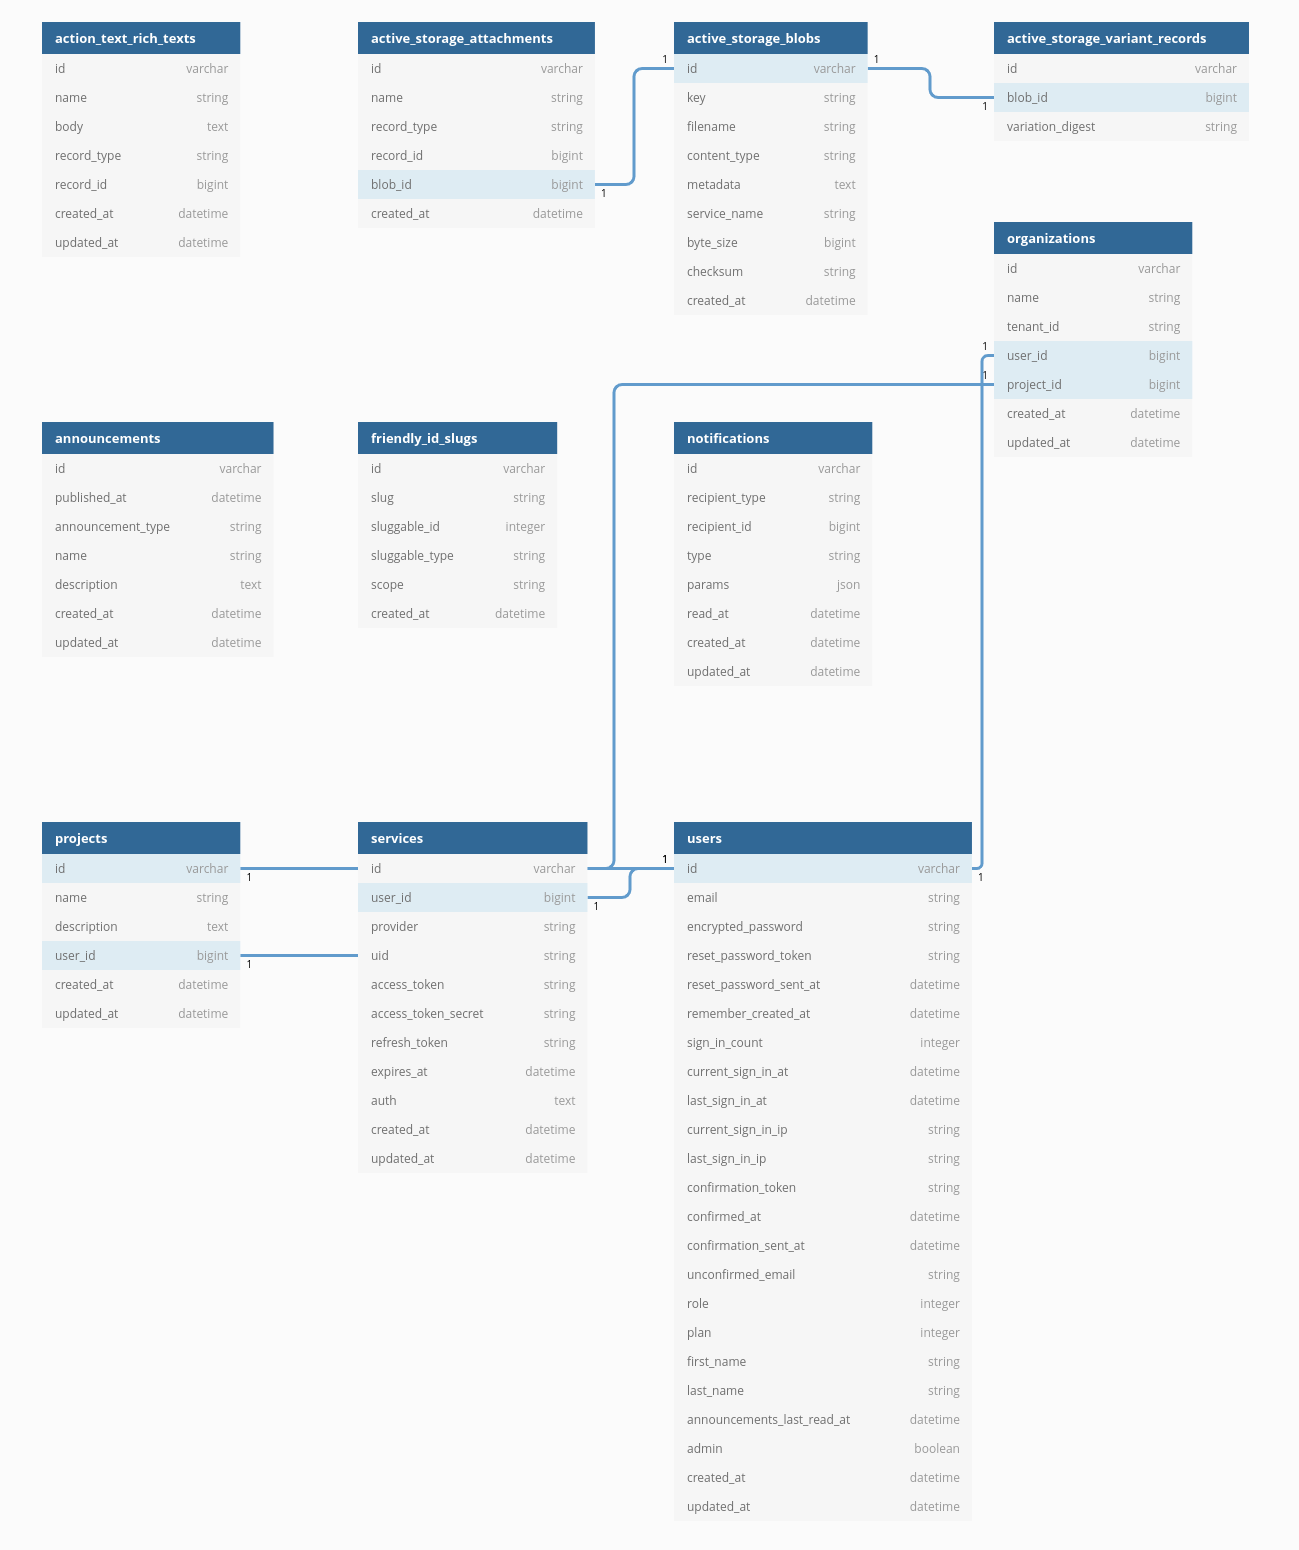
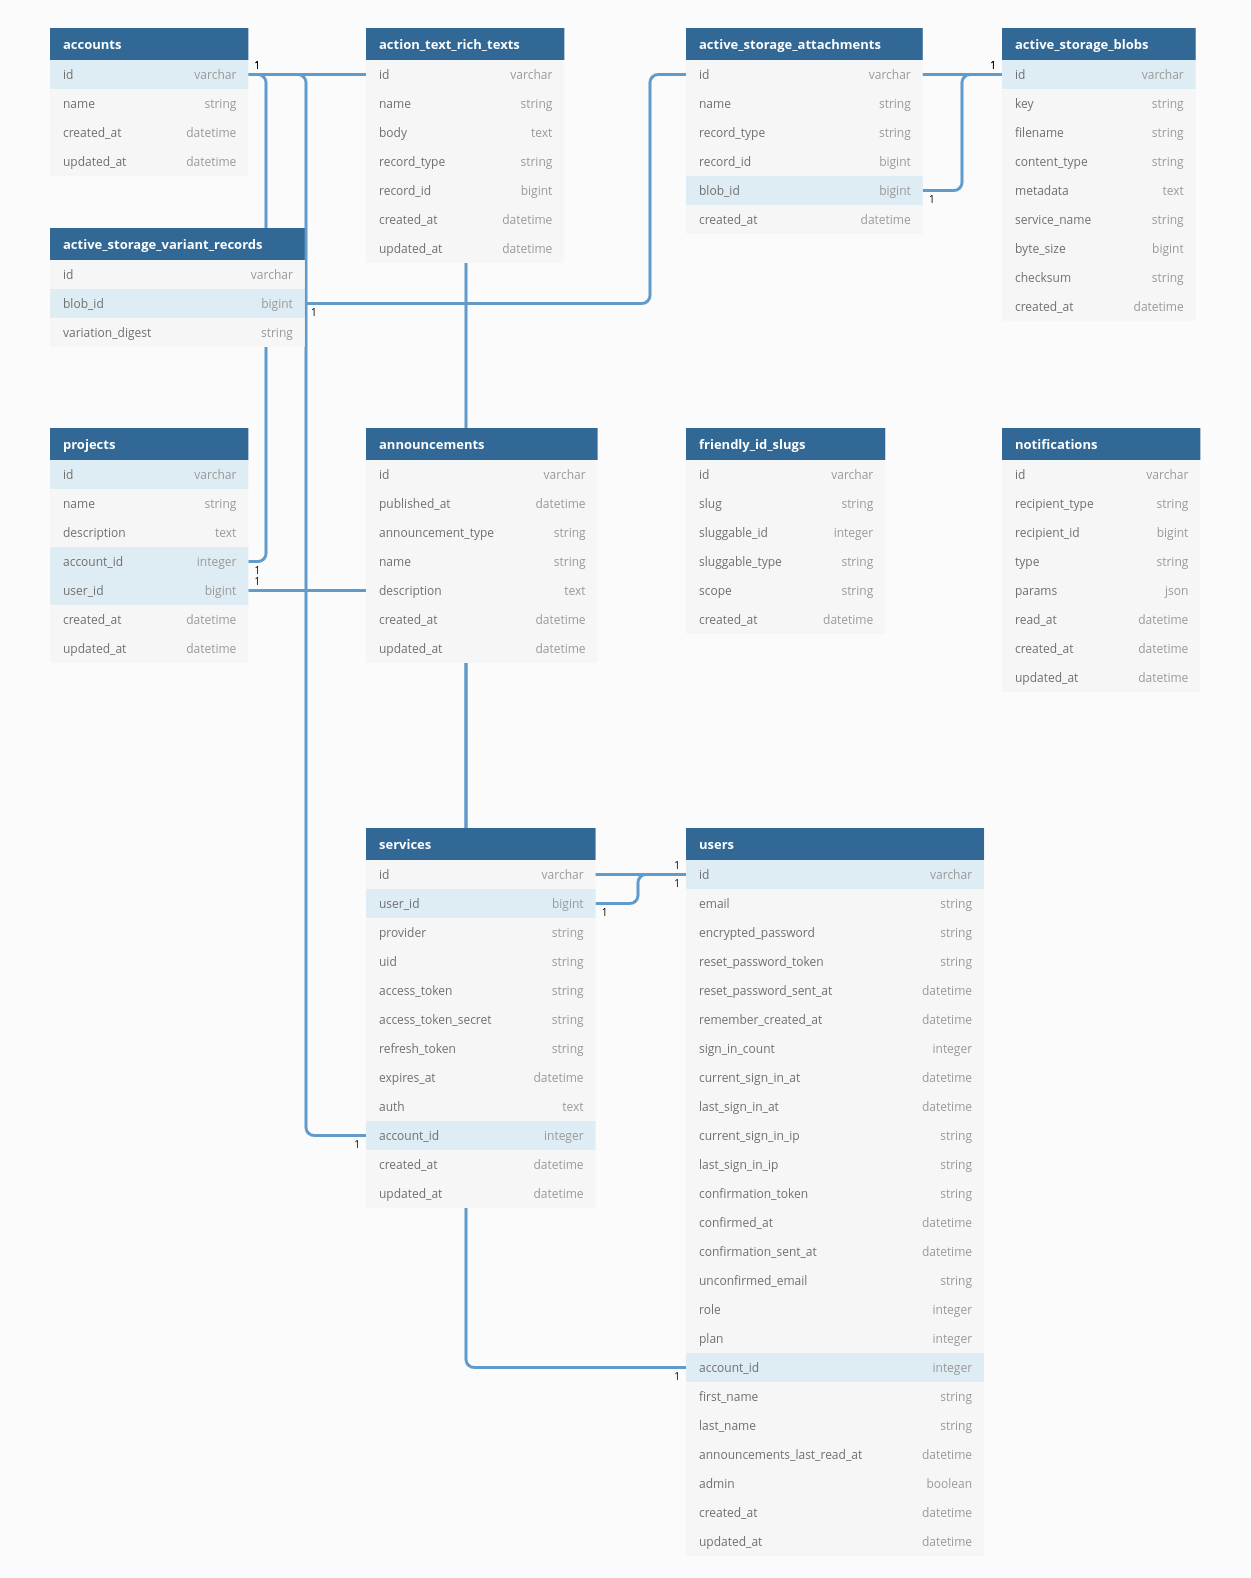
Multi Tenant test, todo, fix Current account

diff --git a/db/schema.rb b/db/schema.rb
@@ -10,9 +10,15 @@
 #
 # It's strongly recommended that you check this file into your version control system.
 
-ActiveRecord::Schema[7.0].define(version: 2022_03_30_122023) do
+ActiveRecord::Schema[7.0].define(version: 2022_03_30_144824) do
   # These are extensions that must be enabled in order to support this database
   enable_extension "plpgsql"
+
+  create_table "accounts", force: :cascade do |t|
+    t.string "name"
+    t.datetime "created_at", null: false
+    t.datetime "updated_at", null: false
+  end
 
   create_table "action_text_rich_texts", force: :cascade do |t|
     t.string "name", null: false
@@ -84,20 +90,10 @@ ActiveRecord::Schema[7.0].define(version: 2022_03_30_122023) do
     t.index ["recipient_type", "recipient_id"], name: "index_notifications_on_recipient"
   end
 
-  create_table "organizations", force: :cascade do |t|
-    t.string "name"
-    t.string "tenant_id"
-    t.bigint "user_id", null: false
-    t.bigint "project_id", null: false
-    t.datetime "created_at", null: false
-    t.datetime "updated_at", null: false
-    t.index ["project_id"], name: "index_organizations_on_project_id"
-    t.index ["user_id"], name: "index_organizations_on_user_id"
-  end
-
   create_table "projects", force: :cascade do |t|
     t.string "name"
     t.text "description"
+    t.integer "account_id"
     t.bigint "user_id", null: false
     t.datetime "created_at", null: false
     t.datetime "updated_at", null: false
@@ -113,6 +109,7 @@ ActiveRecord::Schema[7.0].define(version: 2022_03_30_122023) do
     t.string "refresh_token"
     t.datetime "expires_at"
     t.text "auth"
+    t.integer "account_id"
     t.datetime "created_at", null: false
     t.datetime "updated_at", null: false
     t.index ["user_id"], name: "index_services_on_user_id"
@@ -135,6 +132,7 @@ ActiveRecord::Schema[7.0].define(version: 2022_03_30_122023) do
     t.string "unconfirmed_email"
     t.integer "role", default: 0, null: false
     t.integer "plan", default: 0, null: false
+    t.integer "account_id"
     t.string "first_name"
     t.string "last_name"
     t.datetime "announcements_last_read_at"
@@ -148,8 +146,6 @@ ActiveRecord::Schema[7.0].define(version: 2022_03_30_122023) do
 
   add_foreign_key "active_storage_attachments", "active_storage_blobs", column: "blob_id"
   add_foreign_key "active_storage_variant_records", "active_storage_blobs", column: "blob_id"
-  add_foreign_key "organizations", "projects"
-  add_foreign_key "organizations", "users"
   add_foreign_key "projects", "users"
   add_foreign_key "services", "users"
 end

diff --git a/db/migrate/20210101185053_devise_create_users.rb b/db/migrate/20210101185053_devise_create_users.rb
@@ -33,9 +33,10 @@ class DeviseCreateUsers < ActiveRecord::Migration[7.0] # rubocop:todo Style/Docu
       # t.string   :unlock_token # Only if unlock strategy is :email or :both
       # t.datetime :locked_at
 
-      # Roles & Plans
+      # Roles, Plans & Account
       t.integer :role, default: 0, null: false
       t.integer :plan, default: 0, null: false
+      t.integer :account_id, null: true
 
       t.string :first_name
       t.string :last_name
@@ -45,6 +46,7 @@ class DeviseCreateUsers < ActiveRecord::Migration[7.0] # rubocop:todo Style/Docu
       t.timestamps null: false
     end
     # add_index :users, :username, unique: true
+    # add_index :users, :account_id, unique: true
     add_index :users, :email, unique: true
     add_index :users, :reset_password_token, unique: true
     add_index :users, :confirmation_token,   unique: true

diff --git a/app/controllers/users/omniauth_callbacks_controller.rb b/app/controllers/users/omniauth_callbacks_controller.rb
@@ -61,7 +61,7 @@ module Users
         # 5. User is logged out and they login to a new account which doesn't match their old one
         flash[:alert] =
           # rubocop:todo Layout/LineLength
-          "An account with this email already exists. Please sign in with that account before connecting your #{auth.provider.titleize} account."
+          "A user account with this email already exists. Please sign in with that account before connecting your #{auth.provider.titleize} account."
         # rubocop:enable Layout/LineLength
         redirect_to new_user_session_path
       else
@@ -82,6 +82,7 @@ module Users
 
     def create_user
       User.create(
+        account: auth.info.account,
         email: auth.info.email,
         username: auth.info.username,
         password: Devise.friendly_token[0, 20]

diff --git a/app/models/concerns/account_ownable.rb b/app/models/concerns/account_ownable.rb
@@ -4,12 +4,12 @@ module AccountOwnable
   extend ActiveSupport::Concern
 
   included do
-    # Account is actually not optional, but we not do want
+    # Account is NOT optional, but we don't do want
     # to generate a SELECT query to verify the account is
     # there every time. We get this protection for free
     # because of the `Current.account_or_raise!`     
     # and also through FK constraints.
-    belongs_to :user, optional: true
-    default_scope { where(user: Current.account_or_raise!) }
+    belongs_to :account, optional: true
+    default_scope { where(account: Current.account_or_raise!) }
   end
 end

diff --git a/app/models/user.rb b/app/models/user.rb
@@ -1,6 +1,7 @@
 # frozen_string_literal: true
 
 class User < ApplicationRecord
+  include AccountOwnable
   after_initialize :set_default_role, :set_default_plan, if: :new_record?
   devise :masqueradable, :database_authenticatable, :confirmable, :registerable, :trackable, :recoverable,
          :rememberable, :validatable, :omniauthable
@@ -26,6 +27,7 @@ class User < ApplicationRecord
   # Notifications & Services
   has_many :notifications, as: :recipient
   has_many :services
+  has_many :projects
   # Methods
   def set_default_role
     self.role ||= :user

diff --git a/app/controllers/concerns/require_authentication.rb b/app/controllers/concerns/require_authentication.rb
@@ -1,0 +1,15 @@
+module RequireAuthentication
+  extend ActiveSupport::Concern
+
+  included do
+    before_action :ensure_authenticated_user
+  end
+
+  def ensure_authenticated_user
+    if (user = User.find_by_valid_session(session))
+      Current.user = user
+    else
+      redirect_to new_user_session_path
+    end
+  end
+end

diff --git a/db/migrate/20220330121957_create_projects.rb b/db/migrate/20220330121957_create_projects.rb
@@ -3,6 +3,7 @@ class CreateProjects < ActiveRecord::Migration[7.0]
     create_table :projects do |t|
       t.string :name
       t.text :description
+      t.integer :account_id, null: true
       t.references :user, null: false, foreign_key: true, index: true
 
       t.timestamps

diff --git a/db/migrate/20211219171431_create_services.rb b/db/migrate/20211219171431_create_services.rb
@@ -11,6 +11,7 @@ class CreateServices < ActiveRecord::Migration[7.0] # rubocop:todo Style/Documen
       t.string :refresh_token
       t.datetime :expires_at
       t.text :auth
+      t.integer :account_id, null: true
 
       t.timestamps
     end

diff --git a/app/models/service.rb b/app/models/service.rb
@@ -1,6 +1,7 @@
 # frozen_string_literal: true
 
 class Service < ApplicationRecord # rubocop:todo Style/Documentation
+  include AccountOwnable
   belongs_to :user
 
   Devise.omniauth_configs.each_key do |provider|

diff --git a/app/models/current.rb b/app/models/current.rb
@@ -2,6 +2,7 @@
 
 class Current < ActiveSupport::CurrentAttributes
   attribute :account, :user
+  # attribute :request_id, :user_agent, :ip_address
 
   resets { Time.zone = nil }
 

diff --git a/db/migrate/20220330144824_create_accounts.rb b/db/migrate/20220330144824_create_accounts.rb
@@ -1,0 +1,9 @@
+class CreateAccounts < ActiveRecord::Migration[7.0]
+  def change
+    create_table :accounts do |t|
+      t.string :name
+
+      t.timestamps
+    end
+  end
+end

diff --git a/app/models/account.rb b/app/models/account.rb
@@ -1,6 +1,6 @@
 # frozen_string_literal: true
 
-class Organization < ApplicationRecord
+class Account < ApplicationRecord
   belongs_to :user
   belongs_to :project
 end
